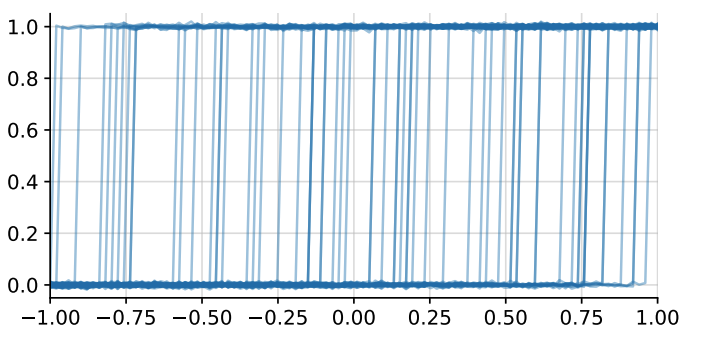
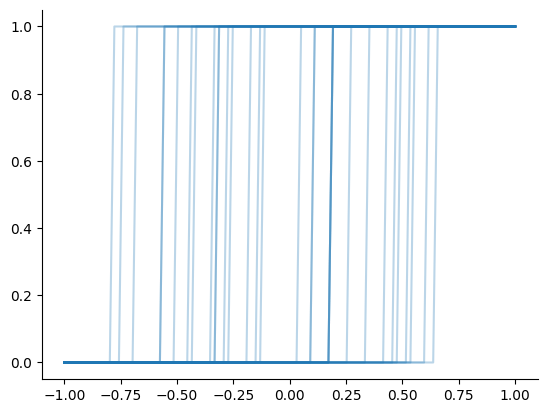
SUMO talk

diff --git a/2023/sumo/step.py b/2023/sumo/step.py
@@ -1,0 +1,20 @@
+#%%
+import matplotlib.pyplot as plt
+import seaborn as sns
+import jax.numpy as jnp
+import jax
+
+
+num_samples = 32
+key = jax.random.PRNGKey(0)
+a = jax.random.uniform(key, shape=(num_samples,), minval=-.8, maxval=.8)
+x = jnp.linspace(-1, 1, 100)
+
+
+# %%
+output = jnp.where(x[None, :] < a[:, None], 0.0, 1.0)
+# %%
+fig, ax = plt.subplots()
+sns.despine()
+ax.plot(x, output.T, "C0", alpha=.3);
+# %%
